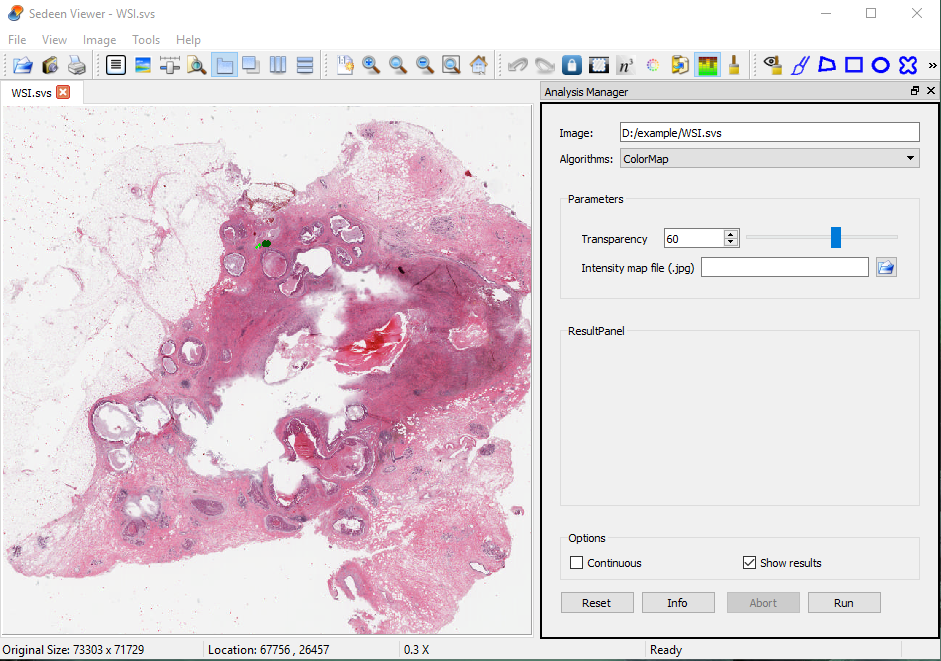
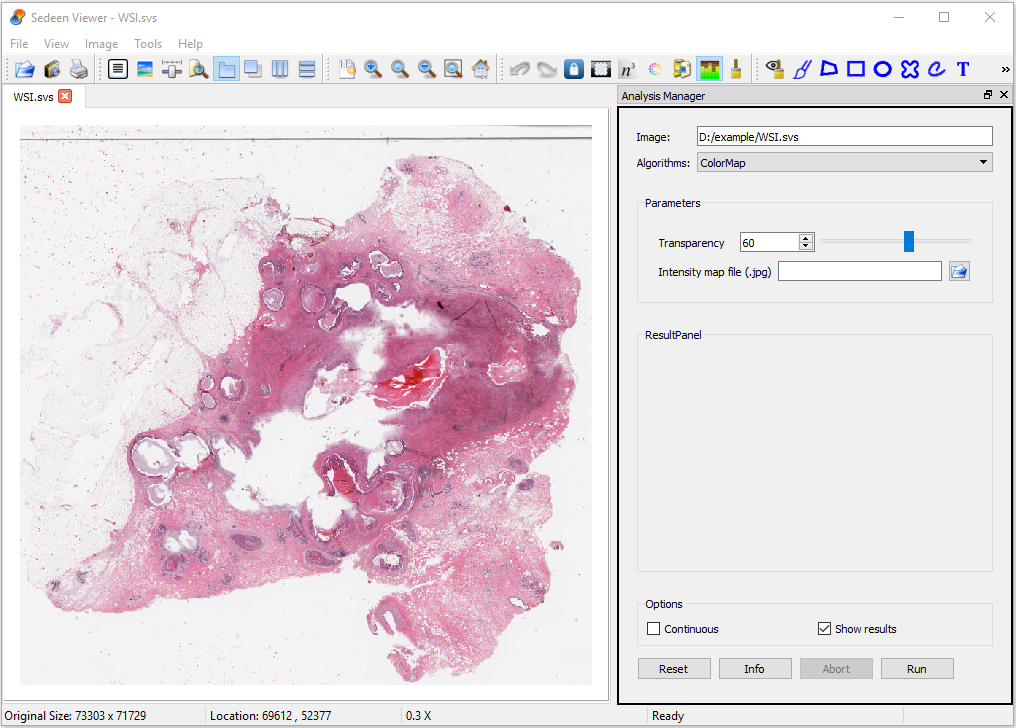
Add a parameter to display colour map only, with transparency mixing with white background

Changed region(s): [[0.0, 0.0, 1.0, 1.0], [0.0, 0.1513, 0.1541, 0.3631], [0.1849, 0.2118, 0.2157, 0.2421]]

diff --git a/ColorMap.cpp b/ColorMap.cpp
@@ -52,6 +52,7 @@ ColorMap::ColorMap()
 	transparency_(),
 	display_area_(),
 	openFileDialogParam_(),
+    displayColorMapOnly_(),
 	display_result_(),
 	selectedFileTobeProcessed_("") 
 {
@@ -147,10 +148,19 @@ void ColorMap::creatHeatMap(image::RawImage& outputImage)
 
 		if (region.contains(position) && (!heatmap_n.empty())) { //
 			const float heat_mix = heatmap_n.at<float>(cv::Point(x, y));
-			// in BGR
-			const cv::Vec3b i_color((unsigned char)it.getComponent(2),
-				(unsigned char)it.getComponent(1),
-				(unsigned char)it.getComponent(0));
+            //If displayHeatmapOnly is true, mix between white and the color map value
+            //Otherwise, get the pixel value in BGR element order
+            cv::Vec3b i_color;
+            if (displayColorMapOnly_ == true) {
+                i_color = cv::Vec3b((unsigned char)(255),
+                    (unsigned char)(255),
+                    (unsigned char)(255));
+            }
+            else {
+                i_color = cv::Vec3b((unsigned char)it.getComponent(2),
+                    (unsigned char)it.getComponent(1),
+                    (unsigned char)it.getComponent(0));
+            }
 			const cv::Vec3b heat_color = opencvColor.at<cv::Vec3b>(cv::Point(x, y));
 			const float heat_mix2 = std::min(heat_mix, g_max_transparency);
 			const cv::Vec3b final_color = interpolate(i_color, heat_color, heat_mix2);
@@ -179,6 +189,11 @@ void ColorMap::init(const image::ImageHandle& input_image) {
 		100, // maximum allowed value
 		false); // optional or not
 
+    //User can choose whether to show the color map only, or overlay it on the slide image
+    displayColorMapOnly_ = createBoolParameter(*this, "Display color map only",
+        "If this box is checked, only the color map will be displayed, and the transparency will be with respect to a white field.",
+        false, false); //default value, optional
+
 	file::FileDialogOptions fileDialogOptions;
 	file::FileDialogFilter fileDialogFilter;
 	fileDialogFilter.name = "Image (*.jpg)";
@@ -194,7 +209,8 @@ void ColorMap::init(const image::ImageHandle& input_image) {
 }
 
 bool ColorMap::parametersChanged() {
-	return transparency_.isChanged();
+	return ( transparency_.isChanged()
+        || displayColorMapOnly_.isChanged() );
 }
 
 cv::Vec3b ColorMap::interpolate(const cv::Vec3b color1, const cv::Vec3b color2, const float value)

diff --git a/ColorMap.h b/ColorMap.h
@@ -96,6 +96,9 @@ private:
 	OpenFileDialogParameter openFileDialogParam_;
 	std::string selectedFileTobeProcessed_;
 
+    ///Specify whether to show the color map only, or show it over the slide image
+    BoolParameter displayColorMapOnly_;
+
 	/// Image result reporter through which results are displayed
 	ImageResult display_result_;
 };

diff --git a/README.md b/README.md
@@ -1,12 +1,24 @@
 <h1 align="center">ColorMap Plugin</h1>
 
-The Color Map plugin allows a user to overlay an intensity map over a whole slide image (WSI). 
-The intensity map is displayed with a violet (low intensity) to red (high intensity) rainbow colour scale. 
+The Color Map plugin allows a user to overlay an intensity map over a whole slide image (WSI). This is useful for things like visual representation of 
+cellularity, but can be used for any 
+The intensity map is displayed with a violet (low) to red (high) colour scale (the "jet" scale in OpenCV). 
+The colour scale is normalized between the lowest and highest pixel values in the intensity map. Usually the lowest value is 0, 
 The user can set a percent transparency value that determines how the overlay is displayed.
 The intensity map file must be a greyscale image in .jpg format.
 
+
+
+
+Does it match the h and v scales?
+
+any other limitations?
+
+
+
+
 ## User Manual
-##### 1.	Open a whole-slide image (WSI) in Sedeen Viewer.
+##### 1.	Open a whole-slide image (WSI) in Sedeen Viewer. Zoom out so that the whole image is displayed within the view area.
 ##### 2.    Open the Analysis Manager, and load the "ColorMap" plugin from the pulldown list of Algorithms.
 
 <div align="center">
